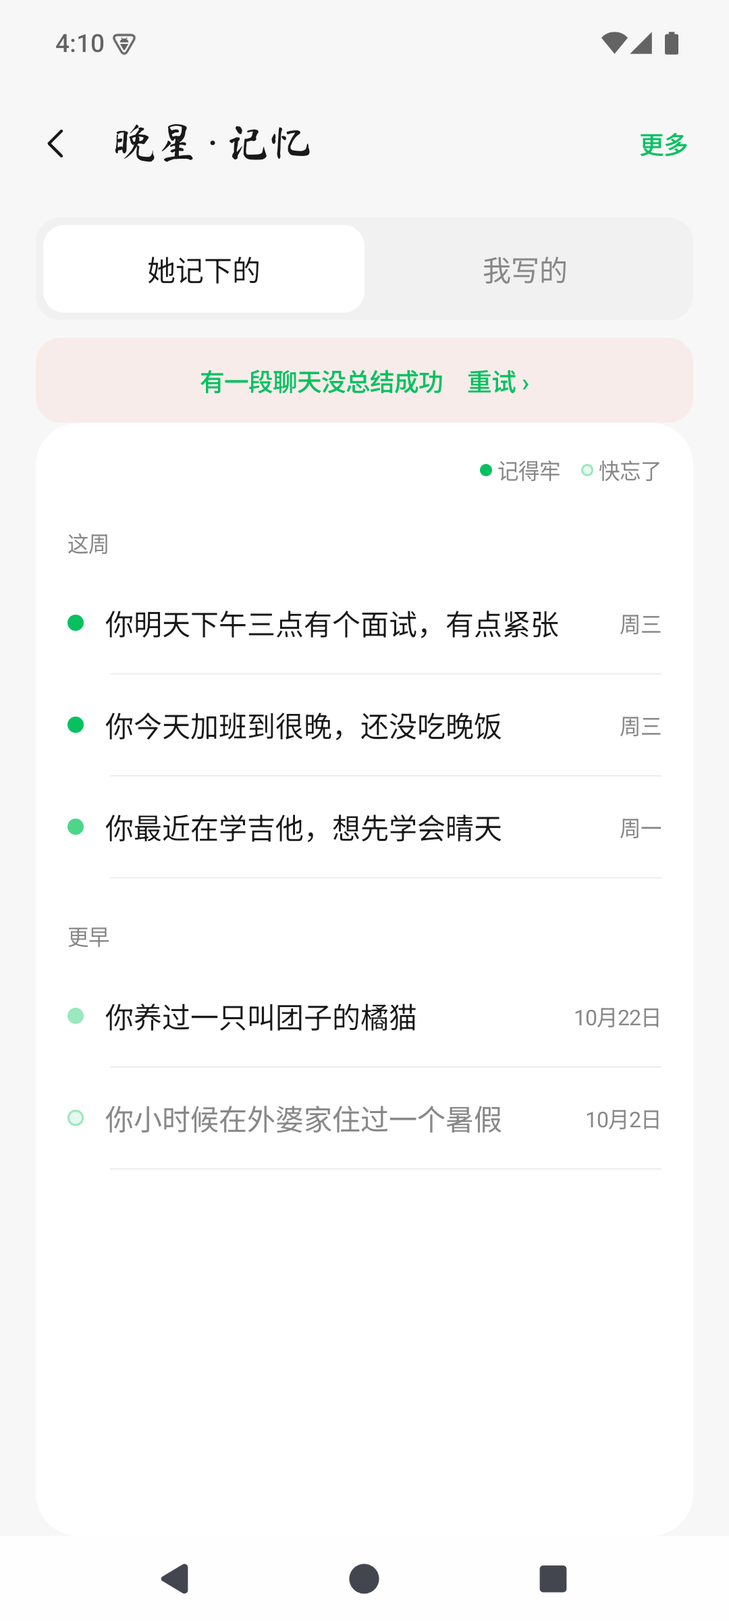
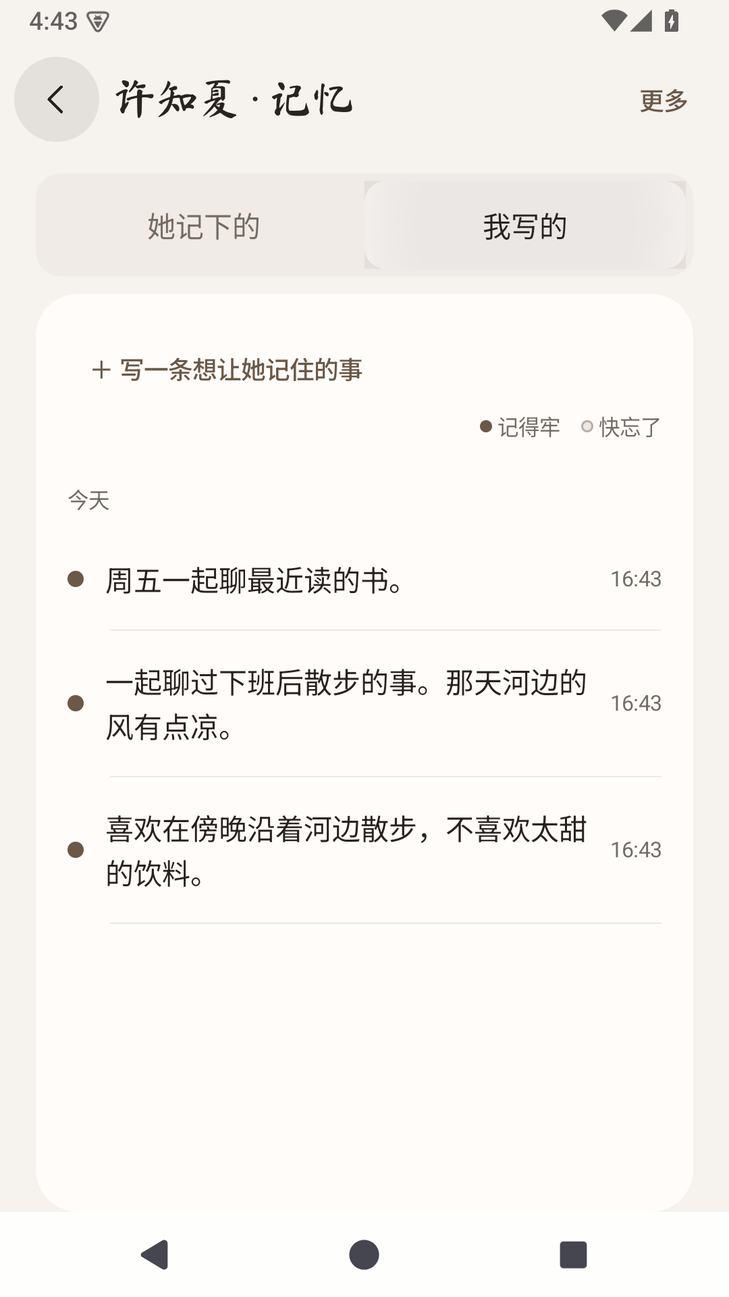
重写恋叙产品介绍并更新真实运行截图
## 改了什么

重写面向首次访问读者的产品介绍，围绕共同经历怎样影响后续理解、回应和主动联系展开。补充角色的观点与习惯变化、记忆清晰度与回查、来源纠正、模型选择和资料备份。

保留下载、费用、隐私、升级和当前限制。构建细节通过既有开发文档入口阅读，安装身份和默认参数放入可展开说明。

新增或替换六张 1.0.3 实际运行截图，注明角色、聊天、记忆和学习记录均为合成展示资料。

## 检查

- 对照当前源码调用链核实记忆、相处回顾、角色状态与主动联系。
- 本机 Codex CLI 使用 Astra、medium 标准档只读审查，按首轮意见调整后复审。由于只读 shell 执行策略限制，审查材料使用带行号及 SHA-256 清单的当前文件全文快照。
- 专用 Android 15 / API 35 模拟器运行实际 1.0.3 APK，安装文件 SHA-256 与已发布产物一致。两项截图相关界面检查通过，全部使用隔离合成资料及模拟客户端。
- 六张图片逐一查看，逐字节核对原始截图。相对链接、目录、敏感文本及改动范围检查通过。
- GitHub Markdown 渲染预览在 1280、390、320 像素宽度检查图片、横向溢出和折叠说明，合并后再次核验线上正文与图片。

## 范围

本次改动只有 README 和展示图片。图中预写对话与学习记录用于介绍界面。真实服务商表现、真实手机和长期后台行为仍按版本验证记录保留其验证边界。

diff --git a/README.md b/README.md
@@ -1,101 +1,188 @@
 # 恋叙 · Lianxu
 
-**和自己设定的角色聊天，聊过的东西会留下能翻看、也能改掉的记忆。**
+**和你设定的角色相处，让共同经历参与她下一次的理解、回应与选择。**
 
-恋叙是一款原生 Android 角色对话应用。角色、聊天、记忆和相处记录**全部存在手机本地**，调用哪家模型由你决定——聊天、角色润色和后台回顾需要模型处理时，才按对应功能发送所需资料给你自己配置的服务商。它不自带免费模型，也不把你绑在任何一家服务上。
+恋叙是一款开源的 Android 角色陪伴应用。你写下她的性格、背景和你们的关系，从聊天开始认识彼此。相处中发生的事、她曾经怎样理解和回应、你后来给出的反馈，都可以留下记录，成为之后交流的依据。她可以表达自己的看法，也可以在有依据的相处中逐渐调整兴趣与习惯。
 
-**Android 8.0+ · Kotlin / Jetpack Compose / Material3 · 自备模型 API · GPL-3.0-only**
+当前正式版 **1.0.3**，支持 **Android 8.0 及以上**。使用时需要自行配置模型 API，费用由你选择的服务商收取。
 
-当前正式版 **1.0.3（版本号 62）**。安装包和校验值见 [GitHub Releases](https://github.com/Jiang-Xiaoxing/Lianxu/releases/tag/v1.0.3)；这一版新增无角色时的暖光开门、分步创建和可选模型润色，更新提示也更简洁。完整变化见 [1.0.3 更新公告](RELEASE-NOTES-1.0.3.md)，测试范围和限制见 [验证记录](VALIDATION-1.0.3.md)。旧版 [1.0.2](https://github.com/Jiang-Xiaoxing/Lianxu/releases/tag/v1.0.2)、[1.0.1](https://github.com/Jiang-Xiaoxing/Lianxu/releases/tag/v1.0.1) 和 [1.0.0](https://github.com/Jiang-Xiaoxing/Lianxu/releases/tag/v1.0.0) 仍保留。
-
-主机检查、定向模拟器回归与合成覆盖升级分开记录；真实手机和真实模型润色本次未实测，未宣称整套设备测试全绿。
-
-## 界面
+[下载 APK](https://github.com/Jiang-Xiaoxing/Lianxu/releases/latest) · [这一版更新了什么](RELEASE-NOTES-1.0.3.md) · [开始使用](#开始使用) · [反馈问题](https://github.com/Jiang-Xiaoxing/Lianxu/issues)
 
 <p>
-  <img src="images/home.png" width="230" alt="聊天列表">
-  <img src="images/chat.png" width="230" alt="聊天">
-  <img src="images/memory.png" width="230" alt="记忆">
+  <img src="images/first-encounter.png" width="230" alt="首次进入恋叙，暖光门前的相遇入口">
+  <img src="images/chat.png" width="230" alt="角色聊天页，展示河边散步的示例对话">
+  <img src="images/memory.png" width="230" alt="记忆管理页，可以查看角色记忆和自己写下的内容">
 </p>
 
-## 它有什么不同
+*文中画面来自 1.0.3 在专用 Android 模拟器中的实际运行。角色、聊天和记忆为合成展示资料，聊天文字预先写入，用来展示界面。*
 
-- **资料在你自己手里。** 聊天、记忆、关系存放在本机数据库，不上传任何第三方中转；需要联网的只有你自己配的那个模型接口。
-- **服务商你自己换。** 内置硅基流动、DeepSeek、Moonshot、MiniMax 等预设，也可以直接填任何 OpenAI 兼容地址和自建服务。换服务商不影响已有角色和资料。
-- **记忆看得见来源。** 每条记忆能查到它是从哪句原话来的，可以编辑、锁定、选择保留或作废；整理记忆不会删除原始聊天。
-- **聊天和回顾分开。** 回复先显示，心情、关系与经历回顾在后台批量进行，失败也不会撤回已经说过的话。
+## 目录
 
-## 现在能做什么
+- [从一次相遇开始](#从一次相遇开始)
+- [共同经历怎样留下影响](#共同经历怎样留下影响)
+- [她有自己的看法，也会慢慢改变](#她有自己的看法也会慢慢改变)
+- [主动联系，也会考虑此刻是否合适](#主动联系也会考虑此刻是否合适)
+- [记忆可以翻看、纠正和保护](#记忆可以翻看纠正和保护)
+- [日常聊天中的细节](#日常聊天中的细节)
+- [模型自己选，资料自己保管](#模型自己选资料自己保管)
+- [开始使用](#开始使用)
+- [当前的限制](#当前的限制)
+- [更多资料](#更多资料)
+- [许可](#许可)
 
-| | |
-|---|---|
-| **按角色聊天** | 每个角色有独立设定、会话和记忆。回复分段显示；等待时仍能输入和补发，新消息会停掉上一轮没说完的部分，已经显示的内容保留。 |
-| **管理记忆** | 查看原话来源、编辑或锁定条目、处理待确认内容。来源变化后可以选择对应条目保留还是作废。 |
-| **两个记忆工具分开开关** | 「主动回查」默认开启，「当场写记忆」默认关闭。是否真的调用取决于模型；只有写入成功才算保存。 |
-| **后台回顾相处** | 默认累计 5 轮实际已显示的对话后回顾一次，可调整轮数。与长期记忆整理是两个流程。 |
-| **主动联系（可选）** | 开启后由模型按对话安排联系、回访或延后考虑，新消息会取消旧计划。实际发送受功能开关、重复执行保护和 Android 后台限制，**不能保证准时送达**。 |
-| **备份与诊断** | 导出单个角色或完整备份，导入前先预览会新增或覆盖什么。完整备份可另选是否包含 API 密钥，包含时用密码加密。 |
+## 从一次相遇开始
 
-默认保留近期 **40 个完整回合**，每批整理 **20 回合**，相关记忆最多 **15 条**，核心记忆单独处理。这些数字可以在设置里调整，但最终仍受所用模型的真实上下文容量限制。
+恋叙想把两件事做进日常对话里。一件是角色能保留自己的立场，另一件是你们相处过的事情能在以后继续产生影响。一次明确的拒绝、一次聊得投机的分享、一句“这样说让我舒服多了”，都值得在下一次交流时被认真对待。
 
-## 一段用起来是什么样
+第一次打开、还没有角色时，轻触门前的画面，就能进入创建引导。先起名字，写下角色设定，再选择是否补充你们的关系和其他细节。每一步都可以回头修改，最后确认后保存。
 
-```text
-写下角色的人设  →  开始聊天  →  成功保存后显示「我记住了」
-                              ↓
-                    点开胶囊看她到底存了什么
-                              ↓
-              不对就改、不重要就删，来源原话还在
-```
+你可以直接使用自己写的文字，也可以让已配置的聊天模型帮忙润色。润色稿会先展示出来，供你检查、逐项修改或切回原文。在创建预览这一步，点“润色”才会把当前填写的资料发给聊天模型。已有角色时，首页加号仍提供完整的创建表单。
+
+<p>
+  <img src="images/contacts.png" width="260" alt="恋叙通讯录，展示三个拥有独立资料的合成角色">
+</p>
+
+每个角色都有独立的设定、会话、记忆和相处记录。你也能填写自己的名字、称呼与介绍，让角色知道该怎样称呼你。
+
+## 共同经历怎样留下影响
+
+长时间相处，需要能接得上过去。聊过什么是一部分，当时如何理解、做过什么回应、后来有没有得到新的反馈，同样会影响下一次交流。
+
+恋叙围绕这些内容组织记忆。最近的对话保留原文，较早的内容可以整理成长期记忆，相处中的理解、感受和变化另有记录。每次回复时，系统会结合当前话题和模型容量，从中选择仍然有效的材料交给模型。
+
+### 原话留着，重要的内容逐步整理
+
+近期聊天会直接参与对话。聊得更久以后，记忆整理会从较早的对话中提取值得保留的内容，包括个人信息、偏好与边界、共同经历、约定和待办。
+
+整理出的条目保留对应的原话来源。你可以追到当时说了什么，也能发现一句话是否被理解错了。整理完成后，聊天原文仍保留在本机。整理失败时，尚未完成的对话会继续保留，应用会显示相应状态。
+
+重要内容可以作为核心记忆单独安排，其他记忆按当前话题查找。除了文字匹配，系统也会参考已有依据的记忆关联。例如，同一件事的经过和后来的反馈，可以沿着关联一起被找到。还可以自行配置向量模型，帮助查找意思相近、用词不同的内容。
+
+记忆还有清晰程度的变化。有些内容能提供细节，有些只剩大意或一点印象，过于模糊的条目会退出普通对话的相关记忆。重要程度会影响记忆随时间变淡的速度，后来有效地回想起一件事，或查到对应原话，这段记忆也有机会变得更清楚，往后淡得更慢。需要核实当时究竟说过什么时，还可以翻回聊天原话。
+
+### 留下当时的理解，也接住后来的反馈
+
+相处回顾会对照你当时的原话和她实际说过的内容，整理值得留下的理解、感受与回应方式。没有值得记下的内容时，那一轮可以留空。后来的反馈可以再指向之前的回应，说明它有没有帮上忙、是否被拒绝，或者还拿不准效果。
+
+这些记录会参与之后可用材料的筛选。相关经历、当前有效的看法和习惯、近期关系状态，会与这次聊天一起交给模型，供它判断怎样接话。仍在尝试的习惯会标明状态，模型据此判断这次是否适用。
+
+**共同经历的作用，会延伸到之后怎样理解你、怎样表达意见，以及是否再来联系你。** 具体回应仍由你选择的模型生成，理解质量与执行情况会影响最终体验。
+
+### 一个说明情境
+
+假设你说过，工作不顺时，希望先把事情讲完，再一起想办法。
+
+这句话可以成为你的相处偏好。某次角色先听你讲完，你又明确说“这样就舒服多了”，这份反馈便有机会与当时的回应联系起来。之后再遇到相似话题，相关偏好、经历和已经形成的习惯就能作为参考，帮助角色选择先听、问清楚，或一起分析。
+
+如果你这一次直接说“帮我列个办法”，当前请求也会进入判断。已经形成的习惯有自己的适用情境，角色需要结合眼前的话来理解。
+
+*这是帮助理解机制的假设情境。实际能否形成对应记录、怎样回应，取决于模型与功能设置。*
+
+### 想不起细节时，可以再翻原话
+
+「主动回查」允许模型在需要时搜索记忆和历史聊天，默认开启。找到资料后，系统要求角色据实使用，并说明是翻过记录。资料不足时，表达规则要求它保留不确定性，避免补出没有依据的共同经历。
+
+「当场写记忆」是另一个独立开关，默认关闭。开启后，模型可以在聊天中请求写入，应用会检查来源和保存结果。聊天里的记忆提示可以点开，查看这次实际记下或查到了什么。
+
+## 她有自己的看法，也会慢慢改变
+
+创建角色时写下的人设，包含身份背景、核心原则，也包含起初的兴趣和相处方式。恋叙为这些内容保留了不同的变化空间。
+
+稳定的身份与明确原则构成角色的基础。观点、兴趣和习惯则可以随着有来源的交流逐步变化。她可以提出不同意见，也可以从一次交流里形成自己的判断，带着这个判断继续了解你。
+
+新想法先作为候选留下。有了后续经历，它可能继续尝试、得到确认，也可能暂停。系统会记录变化适用于什么情境、依据哪些经历、后来如何调整，后续对话按当前有效状态使用。
+
+<p>
+  <img src="images/learning.png" width="260" alt="角色学习记录列表，展示有适用情境和状态的习惯">
+  <img src="images/learning-detail.png" width="260" alt="学习记录详情，可以查看内容、状态和形成依据">
+</p>
+
+*学习页中的时间、变化状态和对话均为合成示例，用来展示记录与依据的对应方式。*
+
+你可以在角色的学习记录里查看这些内容。关系中的信任、亲近、心结等状态也有原话依据，供模型结合当前交流理解。相处回顾在后台按批次完成，所以页面中的感受和关系记录可能晚于最新几轮聊天。
+
+如果一组旧关系分值已经查不清来由，应用会保留原话、暂停回顾，之后的交流以仍可核对的内容为依据。
+
+这里的“自己的看法”和“成长”，指角色在模型与记忆机制支持下表现出的判断、兴趣和习惯变化。实际表现需要通过持续使用来观察。
+
+## 主动联系，也会考虑此刻是否合适
+
+你可以为角色开启主动联系。聊天中安排的回访、还想继续的话题、共同目标和角色兴趣，都能成为以后再考虑联系的材料。
+
+到了再次考虑的时间，系统会把近期对话、有效经历、相处状态与联系缘由交给模型。模型可以决定现在发消息、晚一点再考虑、取消这次安排，或者保持安静。你给同一角色发来新消息后，较早那条消息留下的联系安排会停止用于发送，后续围绕新的交流重新处理。
+
+这种主动联系可以接续具体的事。比如一段还没聊完的话题，或之前说好要回头问问的结果。角色过去形成的看法和习惯，也可以影响这次判断。
+
+**主动联系需要你开启。模型执行、网络和 Android 后台运行会影响何时考虑联系，无法保证准时发送或送达。** 通知权限会影响手机是否显示通知，关闭通知后，消息仍可能出现在应用内。当前还存在模型口头答应联系却没有真正安排的情况。
+
+## 记忆可以翻看、纠正和保护
+
+记忆管理里能看到她记下的内容，也能看到你自己补充的内容。你可以查看来源、修改条目、锁定重要内容，处理需要确认的记录。
+
+修改或撤回原话后，角色会停止使用依赖旧原话的记忆。你可以保留条目供核对，也可以将未受保护的条目标为作废。人工维护和锁定的内容有专门的保护规则，涉及来源变化或整理冲突时，会留下需要核对的记录。
+
+聊天中的“我记住了”等提示也能展开查看，方便你确认实际保存了什么。若要忘记一件事或纠正理解，可以在聊天中提出，随后检查处理结果。遗忘成功后，她会停止使用选中的经历，你仍可以在聊天记录里看到原话。当前口头遗忘仍可能选错首次处理的目标，重要内容建议到记忆页面核对。
+
+## 日常聊天中的细节
+
+- **回复分段出现。** 角色可以按几段消息接话。等待时，你仍能继续输入和补充，新消息会停下上一轮尚未说完的部分，已经显示的内容保留。
+- **回顾在后台进行。** 已经显示的回复先留在聊天里，相处回顾随后按设置批次处理。长聊所需的记忆整理有独立流程，遇到容量不足时会提示等待整理或调整配置。
+- **时间与约定有上下文。** 她能参考当前时间和之前消息的发送时间，理解“过一会儿”或“明天再聊”。如果聊天中确实安排了回访，后台再次考虑联系时，还会参考当时约的时间和缘由。是否真正安排成功仍需看处理结果。
+- **自己的资料可以调整。** 名字、称呼、自我介绍和角色设定都能修改，后续交流使用已保存的设置。
+
+## 模型自己选，资料自己保管
+
+### 选择适合自己的模型
+
+恋叙提供硅基流动、DeepSeek、Moonshot、MiniMax 等服务商预设，也支持填写兼容的自定义服务地址。你可以为聊天和记忆整理选择模型，未另选记忆模型时沿用聊天模型。向量检索也有独立配置。
+
+更换服务商以后，本机已有角色、聊天和记忆仍然保留。不同模型在表达、理解、工具调用和价格上各有差异，实际能力需要用自己的配置确认。仅保存配置代表设置已存好，连接测试与实际聊天有各自结果。
+
+### 本地保存与联网处理
+
+角色、聊天、记忆和相处记录保存在手机本地。需要模型处理时，对应功能会向你配置的服务商发送所需内容。例如，聊天会使用当前对话及选入的相关资料，回顾和整理会使用对应范围的记录，润色会使用当前填写的角色资料，向量检索会使用待索引或查询的文本。
+
+开启主动联系后，应用也可能在后台把角色设定、近期聊天和联系缘由交给聊天模型。即使她决定这次保持安静，这次判断也可能产生费用。
+
+**本地保存与模型处理时的外发同时存在。** 请根据自己的隐私需求选择服务商，并了解它的数据处理方式。聊天、后台回顾、整理、润色以及已启用的向量检索都可能产生模型费用，开源应用本身不附赠免费模型额度。
+
+### 导出、迁移和备份
+
+可以导出单个角色，也可以做完整备份。导入前先看预览，确认哪些资料会新增、哪些会覆盖。升级、换手机和导入覆盖前，建议先留一份备份。
+
+恢复备份后，模型选择和密钥需要再检查。从备份恢复的角色需要重新开启主动联系，备份里尚未执行的回访安排会停止发送。
+
+完整备份可以选择是否包含 API 密钥。选择包含时，密钥部分用备份密码加密。聊天、记忆和角色资料以可直接读取的形式保存在备份里，拿到文件的人可以查看这些内容。分享角色或提交问题前，请检查文件中是否带有私人聊天和凭据。
 
 ## 开始使用
 
-1. **下载安装。** 从 [Releases](https://github.com/Jiang-Xiaoxing/Lianxu/releases/latest) 下载 APK 并先读该版说明。升级前请先备份，**不要为了安装而卸载存有资料的旧应用**。
-2. **添加模型。** 打开「设置 → 大模型配置」，填服务地址、模型名和你自己的 API 密钥，再为需要的用途选定模型。保存配置只是存好设置，不代表已经连上。
-3. **创建角色。** 没有角色时，轻触首页开门，按步骤填写，可先润色并检查预览，也能直接使用原文。已有角色时仍可从首页加号打开原表单。先确认文字聊天通了，再调整记忆和主动联系选项。
+1. **安装应用。** 从 Releases 下载 APK，阅读该版本说明。升级前先导出备份，保留旧应用直接覆盖安装，**不要先卸载存有资料的旧应用**。[下载与版本说明](https://github.com/Jiang-Xiaoxing/Lianxu/releases/latest)
+2. **创建或恢复角色。** 首次进入时轻触开门，新用户选择创建角色，按步骤填写设定。换机用户先从备份恢复资料，导入前检查新增或覆盖的范围。
+3. **确认模型可用，开始聊天。** 在创建引导或「设置 → 大模型配置」中填写服务地址、模型名和自己的 API 密钥，并选择聊天模型。恢复过备份的用户也请检查选择和密钥。先完成连接测试，再试一次文字聊天，之后按需要调整记忆和主动联系选项。
 
-正式包名为 `app.lianxu.independent`，沿用公开 v0.19 的签名。包名或签名不同的安装包不能直接覆盖；自行编译的调试包（带 `.companionstage1` 后缀）与正式版分开保存数据。
+<details>
+<summary>安装身份与记忆默认设置</summary>
 
-## 从源码构建
+正式版包名为 `app.lianxu.independent`，沿用上一正式版的签名。包名或签名不同的安装包无法直接覆盖原应用。自行编译的调试包带 `.companionstage1` 后缀，与正式版分开保存资料。
 
-需要 JDK 21 和兼容的 Android SDK。构建、单元测试、设备测试与测试证书的完整步骤见 [开发与测试](docs/DEVELOPMENT.md)。
+默认超过 40 轮后开始整理较早的对话，每批取 20 轮，相关记忆最多选取 15 条，核心记忆单独处理。尚未整理的原话会继续保留在近期输入里。相处回顾默认累计 5 轮有已显示回复的聊天后进行，被打断前已经显示并保存了部分回复，也算一轮。这些设置可以调整，最终仍受所用模型的真实容量限制。
 
-```sh
-./gradlew :app:assembleDebug :app:testDebugUnitTest :app:lintDebug
-```
+</details>
 
-## 备份、隐私与边界
+## 当前的限制
 
-- **先备份再折腾。** 升级、换设备、导入覆盖之前都先导出一份。导入时先看预览。
-- **密钥要单独保护。** 完整备份可以选择包含 API 密钥，包含时用备份密码加密密钥；聊天等其他资料不因这一项而加密。别把备份当可公开分享的文件。
-- **看得见的限制，不粉饰。** 只支持文字消息，附件入口会提示「附件暂未接入」，没有图片、文件或语音聊天。真实服务商表现、真实手机和长期后台行为没有验收，合成测试不能证明真实模型表现得像真人。
-- **诊断内容可能含隐私。** 详细诊断会包含聊天和提示词，提交问题前请先检查并去掉私人内容、密钥和凭据。
+- **目前支持文字聊天。** 图片、文件和语音消息尚未接入，附件入口会显示提示。
+- **模型可能理解错、漏记或执行失败。** 记忆、成长和关系记录依赖实际模型返回，重要内容可以查来源并手动纠正。当前还存在口头遗忘首次选错目标、答应联系却漏安排的问题。
+- **长期体验仍需继续验证。** 1.0.3 的验证使用专用模拟器、合成数据和模拟客户端。真实服务商润色、真实手机、锁屏通知及长期省电后台尚未验收，测试范围与已知问题保留在版本验证记录中。[1.0.3 验证记录](VALIDATION-1.0.3.md)
+- **诊断文件可能包含隐私。** 详细诊断可能包含聊天和提示词，公开反馈前请检查并去除私人内容、密钥和其他凭据。
 
-## 常见问题
+## 更多资料
 
-**装好就能免费聊天吗？**
-不能。需要自行配置可用的模型 API；开源不等于模型免费。
-
-**保存了模型配置，为什么还是不回？**
-保存配置不会发起请求。确认对应用途已选模型，再检查密钥、模型名、服务地址和额度。不要把密钥贴到公开 Issue 里。
-
-**能保证记住所有事吗？**
-不能。记忆工具、来源校验和人工编辑能帮你管理资料，但替代不了模型的理解能力。看到记错的内容，可以查来源、改掉，重要的还能锁定。
-
-**能发图片或语音吗？**
-当前版本只支持文字。
-
-## 了解更多
-
-- [1.0.3 更新公告](RELEASE-NOTES-1.0.3.md) · [验证记录](VALIDATION-1.0.3.md)
-- [1.0.2 更新说明](RELEASE-NOTES-1.0.2.md)
-
-- [1.0.1 更新说明](RELEASE-NOTES-1.0.1.md) — 这一版改了什么、验证了哪些、哪些还没验
-- [架构说明](docs/ARCHITECTURE.md) · [界面设计](docs/UI-DESIGN.md) · [开发与测试](docs/DEVELOPMENT.md)
-- 发现问题请在 [Issues](https://github.com/Jiang-Xiaoxing/Lianxu/issues)说明应用版本、Android 版本、复现步骤和预期/实际结果
+- [1.0.3 更新公告](RELEASE-NOTES-1.0.3.md) · [历史版本](https://github.com/Jiang-Xiaoxing/Lianxu/releases)
+- [开发与测试](docs/DEVELOPMENT.md) · [界面设计](docs/UI-DESIGN.md)
+- 历史架构说明保留了公开 v0.19 时的设计记录。当前实现请结合源码和对应版本公告阅读。[历史架构说明](docs/ARCHITECTURE.md)
+- 反馈时请写明应用版本、Android 版本、操作步骤，以及预期和实际发生的情况。[提交 Issue](https://github.com/Jiang-Xiaoxing/Lianxu/issues)
 
 ## 许可
 
-源码采用 [GPL-3.0-only](LICENSE)。第三方依赖、字体与资源的许可和署名见 [THIRD_PARTY_NOTICES.md](THIRD_PARTY_NOTICES.md)，分发时需保留。
-
-仓库不包含发布私钥。自行构建的包只有使用兼容签名时才能覆盖已有安装。
+恋叙使用 Kotlin、Jetpack Compose 与 Material3 开发。源码采用 GPL-3.0-only，第三方依赖、字体和资源的许可与署名请一并保留。[源码许可](LICENSE) · [第三方致谢](THIRD_PARTY_NOTICES.md)
